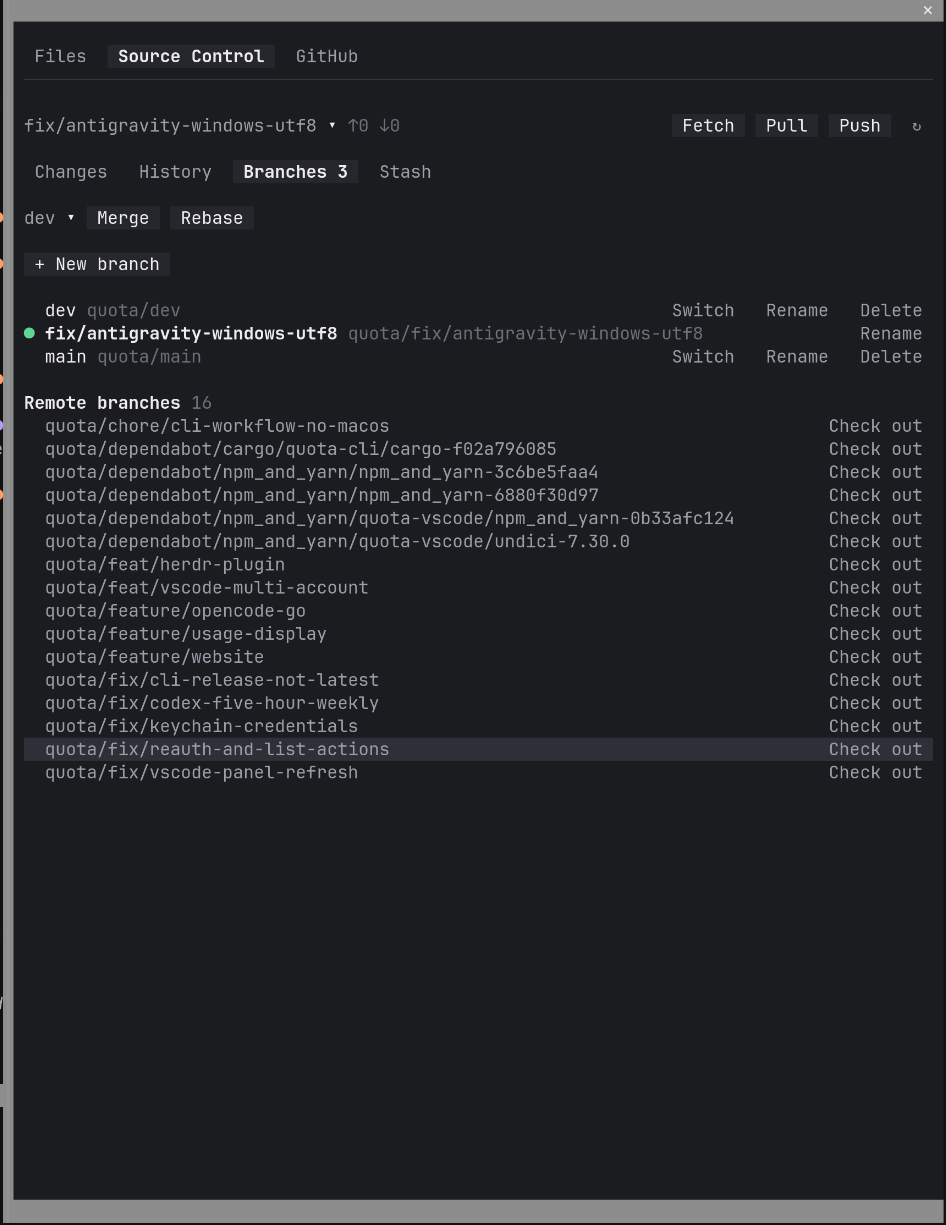
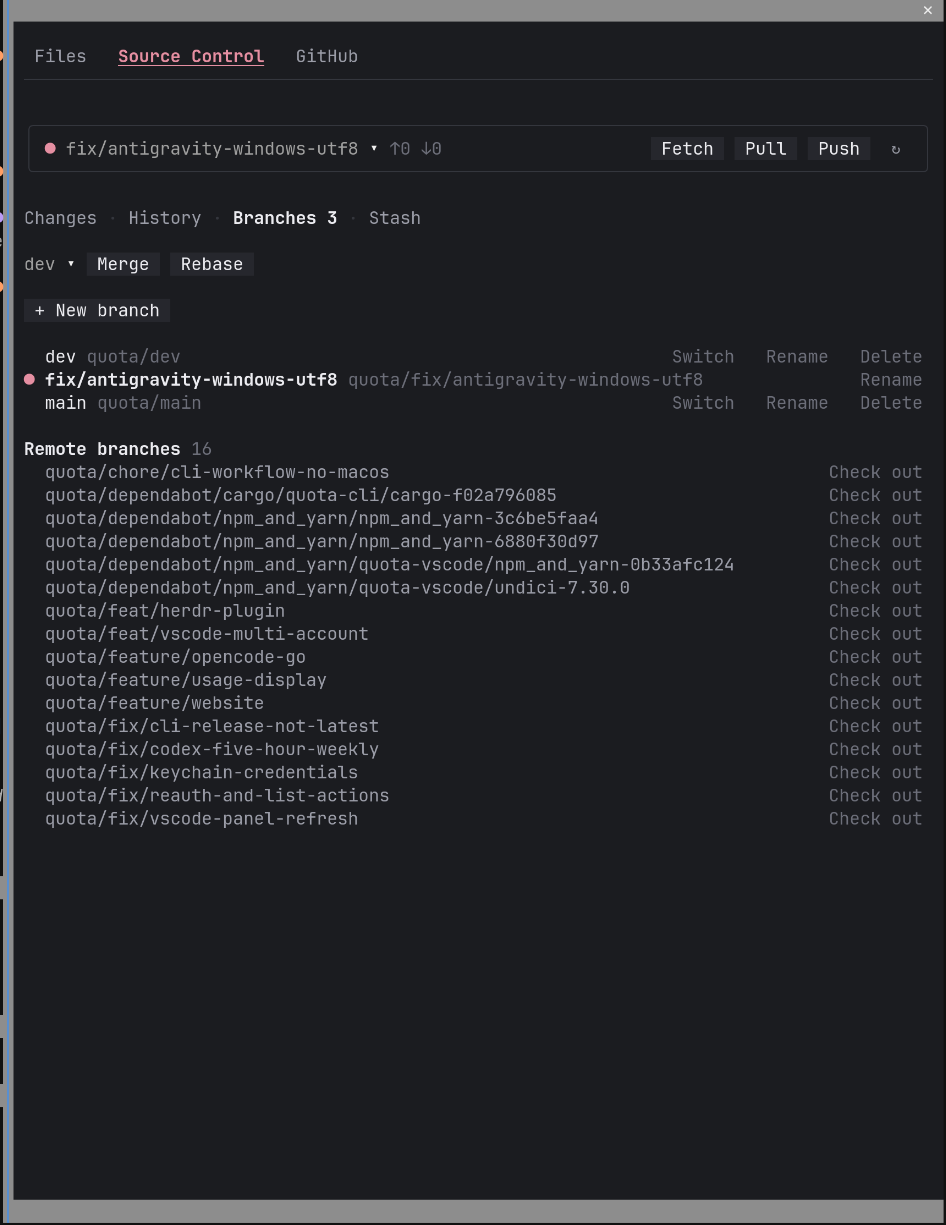
docs: update the controls.tsx description and refresh screenshots

diff --git a/README.md b/README.md
@@ -153,7 +153,7 @@ hooks/
   merge-actions.ts    merge, rebase, Continue/Abort and resolving conflicts
   repo.ts             shared git plumbing: running git, errors, reading repo status
   git.ts              parses git output (no Claude Code calls, so it's easy to test)
-  controls.tsx        shared chip buttons, tabs and divider
+  controls.tsx        shared chip buttons, tabs, section headers, frames and divider
   theme.ts            color tokens
   *.test.ts(x)        tests
 types/index.d.ts      the shape of the session state
